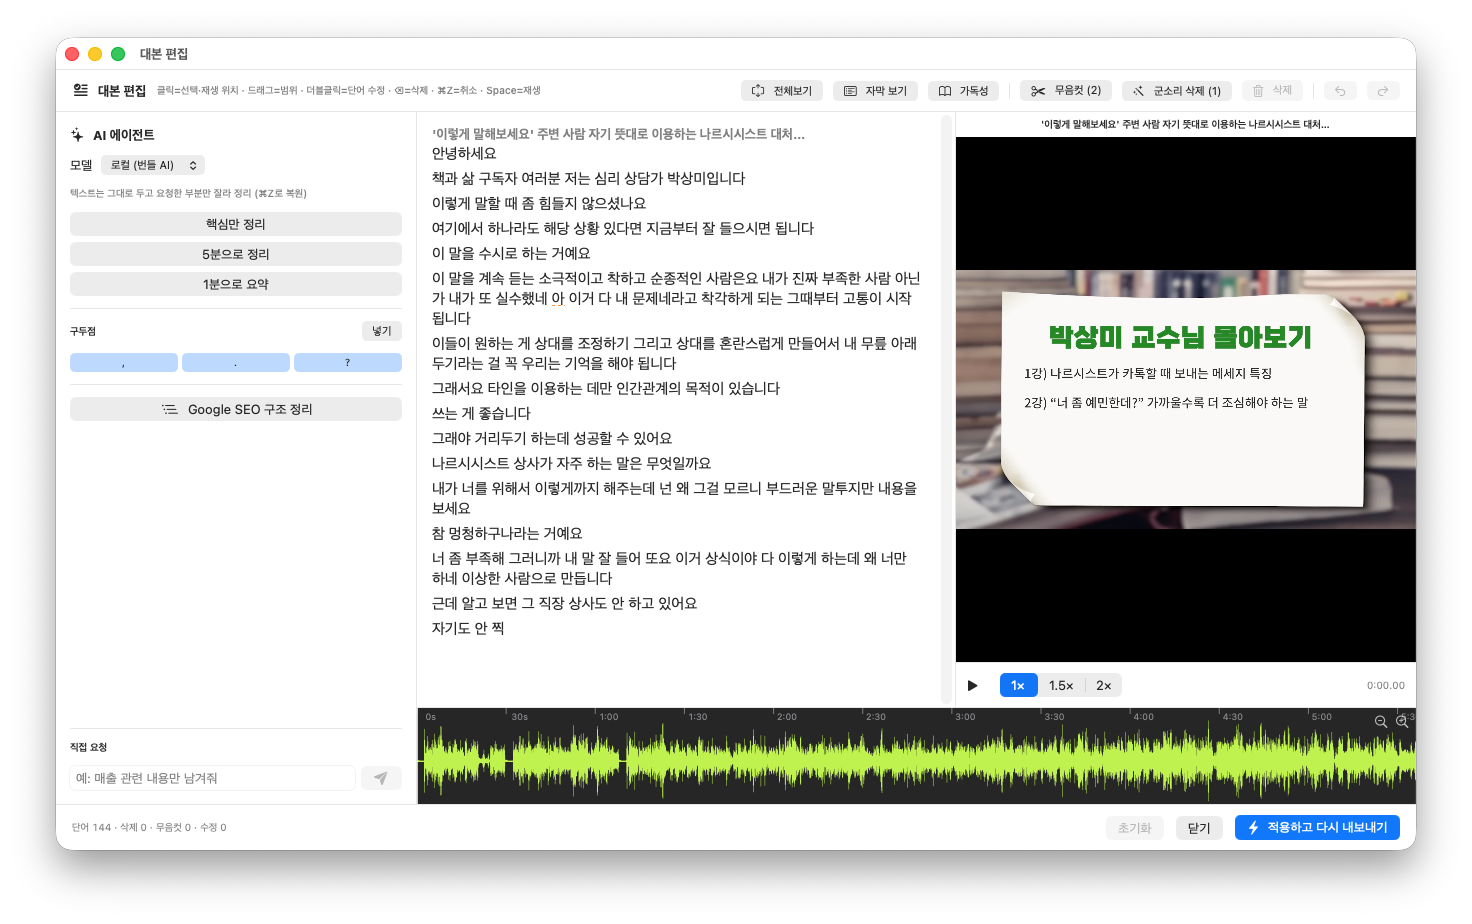
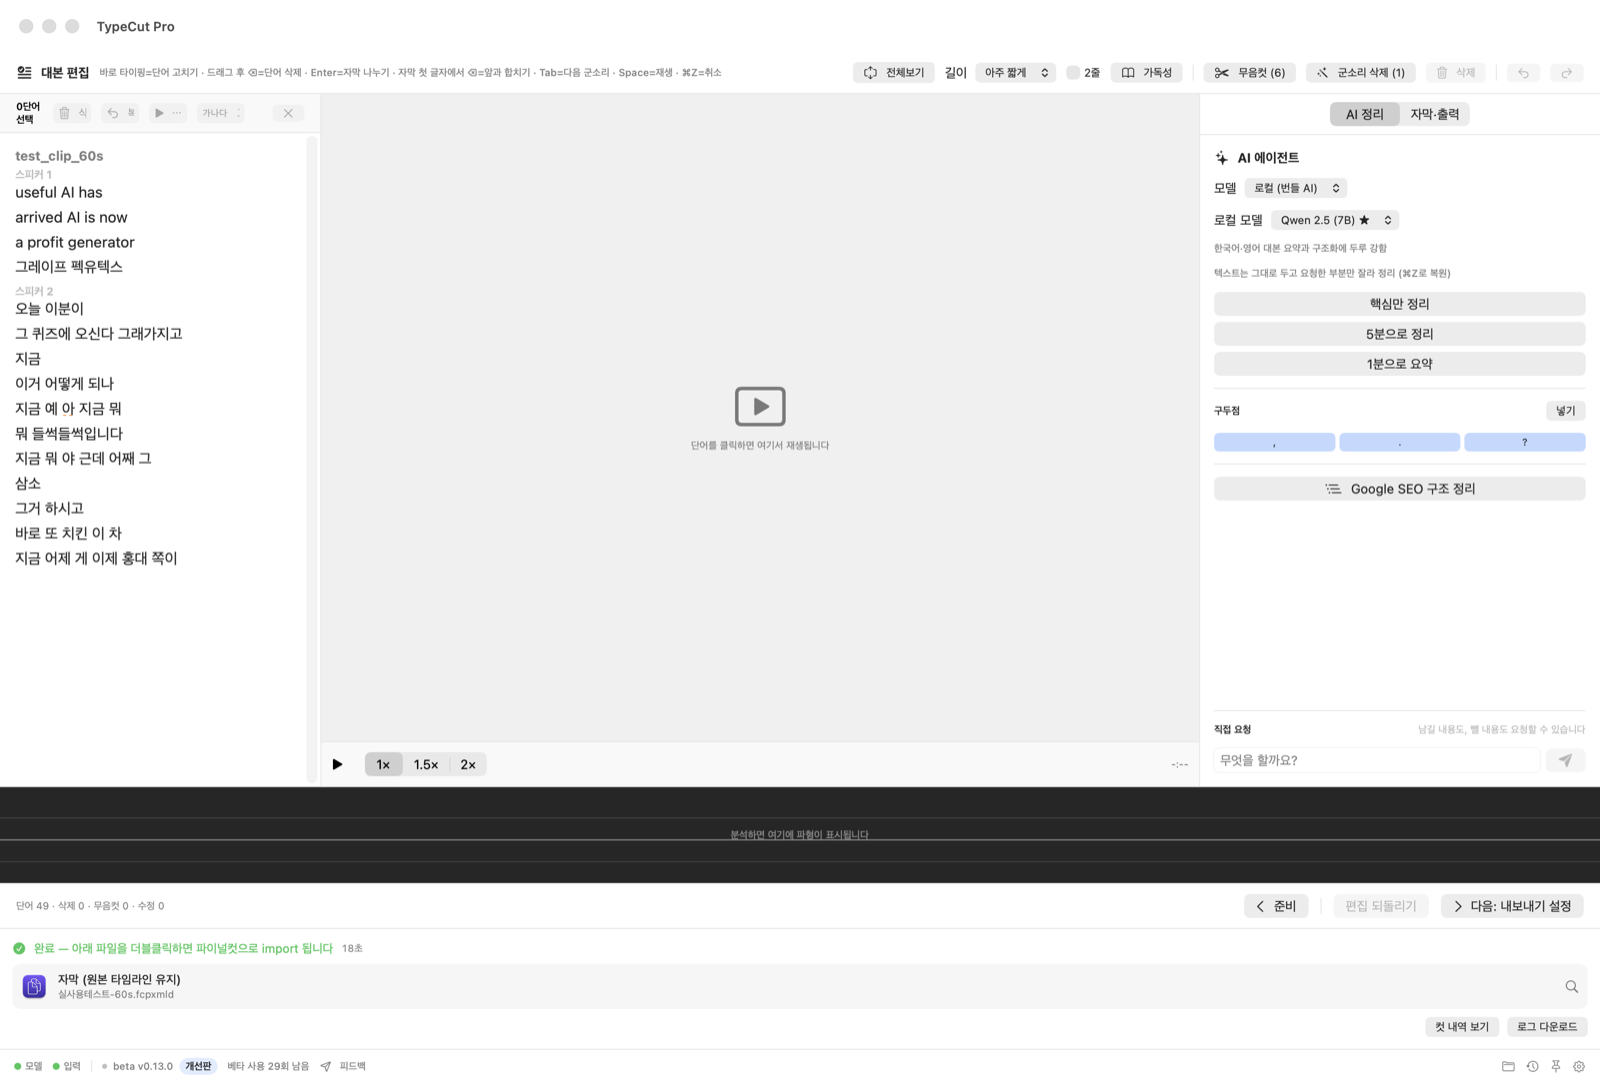
docs: v0.13.0 웹사이트 갱신

diff --git a/docs/index.html b/docs/index.html
@@ -178,7 +178,7 @@ footer a{color:var(--muted);text-decoration:underline}
       <a href="#style">자막 스타일</a>
       <a href="#howto">사용법</a>
       <a href="en/" onclick="try{localStorage.setItem('fcpa-lang','en')}catch(e){}" title="View in English">🇺🇸 English</a>
-      <a href="https://github.com/groundroot/typecut-pro/releases" class="dl">다운로드</a>
+      <a href="https://github.com/groundroot/typecut-pro/releases/download/v0.13.0/TypeCut-Pro-beta-v0.13.0.dmg" class="dl">다운로드</a>
     </div>
   </div>
 </nav>
@@ -189,7 +189,7 @@ footer a{color:var(--muted);text-decoration:underline}
     <h1>파이널컷 편집의 뒷일,<br><span class="grad">드래그 한 번</span>으로 끝.</h1>
     <p class="tag">프로젝트를 드래그하면 — <b>무음을 잘라내고, 자막을 입히고, 대본까지 텍스트로 편집</b>해 다시 파이널컷으로 돌려주는 맥앱. <b>모든 처리는 내 Mac 안에서만.</b> 영상이 외부 서버로 나가지 않습니다.</p>
     <div class="cta">
-      <a class="btn primary" href="https://github.com/groundroot/typecut-pro/releases">⬇ 최신 베타 받기 (DMG)</a>
+      <a class="btn primary" href="https://github.com/groundroot/typecut-pro/releases/download/v0.13.0/TypeCut-Pro-beta-v0.13.0.dmg">⬇ 베타 v0.13.0 받기 (DMG)</a>
       <a class="btn ghost" href="https://open.kakao.com/o/grDKAwCi">💬 베타 오픈채팅 참여</a>
     </div>
     <div class="badges">
@@ -197,7 +197,7 @@ footer a{color:var(--muted);text-decoration:underline}
       <span>100% 온디바이스 AI</span><span>English · 한국어</span>
     </div>
     <div class="shot"><img src="screenshots/main-window.png" alt="TypeCut Pro 메인 화면"></div>
-    <p class="caption">메인 화면 — 사이드바에서 <b>1단계(음성 분석) → 2단계(자막·출력)</b> 옵션을 고르고, 프로젝트를 점선 박스에 떨어뜨리면 끝.</p>
+    <p class="caption">v0.13.0 메인 화면 — 창 어디에나 프로젝트를 떨어뜨리면 즉시 분석하고, 대본·뷰어·옵션을 한 화면에서 이어서 편집합니다.</p>
   </div>
 </header>
 
@@ -261,7 +261,7 @@ footer a{color:var(--muted);text-decoration:underline}
   <div class="wrap">
     <p class="kicker">Transcript Editor</p>
     <h2>📝 대본 편집기 — 영상을 '글'처럼 편집</h2>
-    <p class="lead">분석이 끝나면 <b style="color:var(--text)">[대본 편집]</b> 버튼으로 문서 편집기 같은 창이 열립니다. 대본을 읽으며 필요 없는 부분을 지우면, <b style="color:var(--text)">그 구간이 타임라인에서 잘려</b> 나옵니다. 모든 편집은 ⌘Z로 복원.</p>
+    <p class="lead">편집기는 처음부터 상시 열려 있습니다. 분석 중에는 뷰어 위 진행 상태를, 완료 후에는 하단 결과를 보여줍니다. 대본을 읽으며 필요 없는 부분을 지우면 <b style="color:var(--text)">그 구간이 타임라인에서 잘려</b> 나오고, 모든 편집은 ⌘Z로 복원됩니다.</p>
 
     <div class="feature">
       <div class="txt">
@@ -279,15 +279,15 @@ footer a{color:var(--muted);text-decoration:underline}
 
     <div class="feature rev">
       <div class="txt">
-        <h3>💬 자막 뷰 — 자막 단위로 다듬기 <span style="font-size:13px;color:var(--muted)">(CapCut 스타일)</span></h3>
+        <h3>💬 집중 대본 뷰 — 글에만 몰입해 다듬기</h3>
         <ul>
-          <li>실제 출력될 <b>자막 한 장 = 카드 한 장</b>, 번호·타임코드 표시</li>
-          <li><b>자막 맨 앞에서 ⌫</b> = 앞 자막과 병합 · <b>⌘Enter</b> = 커서에서 분리</li>
-          <li>툴바 <b>길이 슬라이더 + 2줄 토글</b>로 자막 수 즉시 조절</li>
-          <li>병합·분리한 경계는 <b>출력 결과에 그대로 반영</b></li>
+          <li><b>전체보기</b>로 뷰어와 인스펙터를 숨겨 넓은 문서처럼 편집</li>
+          <li><b>Enter</b> = 커서에서 자막 나누기 · 자막 첫 글자에서 <b>⌫</b> = 앞 자막과 합치기</li>
+          <li>툴바에서 <b>자막 길이 + 2줄 토글</b>을 바로 조절</li>
+          <li><b>Tab</b> = 다음 군소리 · <b>Space</b> = 커서 위치부터 재생</li>
         </ul>
       </div>
-      <figure class="pic"><img src="screenshots/caption-cards.png" alt="자막 카드 편집 뷰" loading="lazy"></figure>
+      <figure class="pic"><img src="screenshots/caption-cards.png" alt="전체 화면 집중 대본 편집 뷰" loading="lazy"></figure>
     </div>
 
     <div class="feature">
@@ -295,7 +295,7 @@ footer a{color:var(--muted);text-decoration:underline}
         <h3>🤖 AI 에이전트 — 말하면 대신 편집</h3>
         <p class="sub">텍스트는 절대 바꾸지 않고 필요한 부분만 잘라내며, 결과는 언제든 검토·복원할 수 있습니다.</p>
         <ul>
-          <li><b>요약 & 발췌</b> — "핵심만" · "5분으로" · "매출 얘기만 남겨줘"</li>
+          <li><b>요약 &amp; 발췌</b> — "핵심만" · "5분으로" · "매출 얘기만 남겨줘"</li>
           <li><b>Google SEO 구조 정리</b> — H2·H3 목차 생성, 섹션 통째 삭제</li>
           <li><b>구두점 넣기</b> — 마침표·물음표·쉼표를 명문화된 규칙대로</li>
           <li><b>기본은 오프라인</b> — 원하면 OpenAI·Gemini·Claude API 키 연결</li>
@@ -308,8 +308,8 @@ footer a{color:var(--muted);text-decoration:underline}
 
 <section id="style">
   <div class="wrap">
-    <p class="kicker">Subtitle Style & Titles</p>
-    <h2>🎨 자막 스타일 & 타이틀 — 처음부터 완성형</h2>
+    <p class="kicker">Subtitle Style &amp; Titles</p>
+    <h2>🎨 자막 스타일 &amp; 타이틀 — 처음부터 완성형</h2>
 
     <div class="feature">
       <div class="txt">
@@ -363,8 +363,8 @@ footer a{color:var(--muted);text-decoration:underline}
     <p class="kicker">How to use</p>
     <h2>사용법 — 3단계</h2>
     <div class="steps">
-      <div class="step"><div class="n">1</div><h3>넣기</h3><p>파이널컷에서 프로젝트를 잡아 앱의 점선 박스로 드래그</p></div>
-      <div class="step"><div class="n">2</div><h3>실행</h3><p>원하는 옵션을 켠 뒤 실행. 진행 상황과 남은 시간이 표시됩니다</p></div>
+      <div class="step"><div class="n">1</div><h3>넣기</h3><p>파이널컷 프로젝트나 .fcpxml(d) 파일을 앱 창 어디에나 드래그</p></div>
+      <div class="step"><div class="n">2</div><h3>자동 분석</h3><p>입력 즉시 분석. 편집기 뷰어 위에 단계별 진행 상황과 남은 시간이 표시됩니다</p></div>
       <div class="step"><div class="n">3</div><h3>돌려받기</h3><p>결과 파일을 잡아 파이널컷으로 드래그 → 새 프로젝트로 import (원본 비파괴)</p></div>
     </div>
     <div class="dualshot">
@@ -380,32 +380,21 @@ footer a{color:var(--muted);text-decoration:underline}
 <section>
   <div class="wrap">
     <p class="kicker">Requirements</p>
-    <h2>설치 & 요구 사항</h2>
+    <h2>설치 &amp; 요구 사항</h2>
     <div class="req">
       <div class="tile"><b>Mac</b><span>Apple Silicon (M1 이상) — Intel 미지원</span></div>
       <div class="tile"><b>macOS</b><span>14 (Sonoma) 이상</span></div>
       <div class="tile"><b>Final Cut Pro</b><span>10.x ~ 12.3</span></div>
       <div class="tile"><b>디스크</b><span>최초 1회 AI 음성 모델 약 3.5GB</span></div>
     </div>
-    <p class="caption" style="text-align:left;margin-top:20px">
-      DMG를 열고 앱을 Applications로 드래그하면 설치 끝.
-      설치 후에는 <b>앱 안의 "지금 업데이트"</b> 버튼으로 이후 버전을 바로 받을 수 있어요.
-      성능·개인정보: 모든 AI 처리는 온디바이스로, 네트워크 연결 없이 동작합니다.
-    </p>
-
-    <h3 style="margin-top:44px;font-size:19px;font-weight:800">🔓 "확인되지 않은 개발자" 경고가 뜬다면 — 한 번만 이렇게</h3>
-    <p class="caption" style="text-align:left;margin-top:8px">
-      베타 버전은 아직 Apple 공증(notarization) 전이라, 처음 열 때 macOS가 실행을 한 번 차단합니다.
-      아래 순서대로 허용해 주세요. <b>최초 1회만 필요</b>하고, 이후에는 더블클릭으로 바로 열립니다.
-    </p>
-    <div class="steps" style="margin-top:20px">
-      <div class="step"><div class="n">1</div><h3>일단 한 번 실행</h3><p>Applications에서 <b>TypeCut Pro를 더블클릭</b> → "열 수 없습니다" 경고가 뜨면 <b>완료(확인)</b>를 누릅니다. 이 시도가 있어야 다음 단계 버튼이 나타나요.</p></div>
-      <div class="step"><div class="n">2</div><h3>설정에서 허용</h3><p><b>시스템 설정 → 개인정보 보호 및 보안</b>으로 가서 아래로 스크롤 → "'TypeCut Pro'이(가) 차단되었습니다" 옆의 <b>그래도 열기</b>를 클릭합니다.</p></div>
-      <div class="step"><div class="n">3</div><h3>암호 입력 후 열기</h3><p>관리자 암호(또는 Touch ID)를 입력하고 <b>열기</b>를 누르면 실행됩니다. 다음부터는 경고 없이 바로 열려요.</p></div>
+    <div class="steps" style="margin-top:24px">
+      <div class="step"><div class="n">1</div><h3>DMG 열기</h3><p><b>TypeCut Pro beta v0.13.0</b> DMG를 다운로드해 엽니다.</p></div>
+      <div class="step"><div class="n">2</div><h3>Applications로 복사</h3><p>TypeCut Pro를 <b>Applications 폴더로 드래그</b>하면 설치가 끝납니다.</p></div>
+      <div class="step"><div class="n">3</div><h3>첫 실행</h3><p>앱을 열고 온디바이스 음성 모델을 한 번 다운로드한 뒤 프로젝트를 드롭합니다.</p></div>
     </div>
-    <p class="caption" style="text-align:left;margin-top:16px">
-      💡 이 경고는 앱에 문제가 있어서가 아니라, 베타가 아직 Apple의 공증 절차를 거치지 않았기 때문에 나오는 표준 안내입니다.
-      막히는 부분이 있으면 <a href="https://open.kakao.com/o/grDKAwCi">베타 오픈채팅</a>에서 바로 도와드려요.
+
+    <p class="caption" style="text-align:left;margin-top:20px">
+      v0.13.0은 <b>Apple 공증(notarization)을 완료</b>했습니다. 별도의 보안 해제 절차 없이 실행할 수 있고, 이후 버전은 앱 안의 업데이트 버튼으로 받을 수 있습니다. 음성 인식·자막·편집 처리는 모두 Mac 안에서 동작합니다.
     </p>
   </div>
 </section>
@@ -414,7 +403,7 @@ footer a{color:var(--muted);text-decoration:underline}
   <div class="wrap" style="padding-top:20px;padding-bottom:20px">
     <h2>컷 편집의 지루한 뒷일,<br>이제 몇 분이면 됩니다.</h2>
     <div class="cta">
-      <a class="btn primary" href="https://github.com/groundroot/typecut-pro/releases">⬇ 최신 베타 받기</a>
+      <a class="btn primary" href="https://github.com/groundroot/typecut-pro/releases/download/v0.13.0/TypeCut-Pro-beta-v0.13.0.dmg">⬇ 베타 v0.13.0 받기</a>
       <a class="btn ghost" href="https://github.com/groundroot/typecut-pro">GitHub에서 보기</a>
     </div>
     <p class="caption" style="margin-top:20px">💬 설치 도움 · 버그 제보 · 기능 요청 — <a href="https://open.kakao.com/o/grDKAwCi">카카오톡 베타 오픈채팅</a></p>

diff --git a/docs/en/index.html b/docs/en/index.html
@@ -23,7 +23,7 @@
   <link rel="alternate" hreflang="x-default" href="https://groundroot.github.io/typecut-pro/en/">
   <link rel="icon" href="../icon.png">
   <script type="application/ld+json">
-  {"@context":"https://schema.org","@type":"SoftwareApplication","name":"TypeCut Pro","applicationCategory":"MultimediaApplication","operatingSystem":"macOS 14 or later","softwareVersion":"0.12.82 beta","downloadUrl":"https://github.com/groundroot/typecut-pro/releases/latest","description":"On-device silence removal, native captions, and text-based editing for Final Cut Pro.","offers":{"@type":"Offer","price":"0","priceCurrency":"USD"}}
+  {"@context":"https://schema.org","@type":"SoftwareApplication","name":"TypeCut Pro","applicationCategory":"MultimediaApplication","operatingSystem":"macOS 14 or later","softwareVersion":"0.13.0 beta","downloadUrl":"https://github.com/groundroot/typecut-pro/releases/download/v0.13.0/TypeCut-Pro-beta-v0.13.0.dmg","description":"On-device silence removal, native captions, and text-based editing for Final Cut Pro.","offers":{"@type":"Offer","price":"0","priceCurrency":"USD"}}
   </script>
   <script>
     (function () {
@@ -233,8 +233,9 @@
     .caption-demo .wrap { display: grid; grid-template-columns: .72fr 1.28fr; gap: 80px; align-items: center; }
     .caption-stack { position: relative; min-height: 500px; }
     .caption-stack .media { position: absolute; width: 92%; }
-    .caption-stack .media:first-child { top: 0; left: 0; transform: rotate(-1.2deg); }
-    .caption-stack .media:last-child { right: 0; bottom: 0; transform: rotate(1.4deg); box-shadow: 0 35px 80px rgba(0,0,0,.55); }
+    .caption-stack .media:first-child { top: 0; left: 0; z-index: 1; transform: rotate(-1.2deg); }
+    .caption-stack .media:nth-child(2) { top: 50%; left: 50%; z-index: 2; transform: translate(-48%, -50%) rotate(.4deg); }
+    .caption-stack .media:last-child { right: 0; bottom: 0; z-index: 3; transform: rotate(1.4deg); box-shadow: 0 35px 80px rgba(0,0,0,.55); }
     .caption-copy h2 { font-size: clamp(40px, 5vw, 68px); line-height: .98; letter-spacing: -.055em; margin: 0; }
     .caption-copy p { color: var(--muted); font-size: 17px; }
 
@@ -345,7 +346,7 @@
           <h1>The boring half <span class="quiet">of editing, automated.</span></h1>
           <p class="intro">Drop in your Final Cut project. TypeCut Pro <strong>cuts dead air, creates native captions, and turns the timeline into editable text</strong> — then hands it back without touching your original.</p>
           <div class="actions">
-            <a class="button button-primary" href="https://github.com/groundroot/typecut-pro/releases/download/v0.12.82/TypeCut-Pro-beta-v0.12.82.dmg">Download beta v0.12.82</a>
+            <a class="button button-primary" href="https://github.com/groundroot/typecut-pro/releases/download/v0.13.0/TypeCut-Pro-beta-v0.13.0.dmg">Download beta v0.13.0</a>
             <a class="button button-secondary" href="#workflow">See the 3-step workflow</a>
           </div>
           <div class="meta" aria-label="System requirements summary">
@@ -375,13 +376,13 @@
         <div class="workflow-grid">
           <article class="workflow-step">
             <span class="num">01 / FINAL CUT</span>
-            <h2>Drag the project in</h2>
-            <p>Use the project you are already editing. No render or audio extraction.</p>
+            <h2>Drop the project anywhere</h2>
+            <p>Drop your Final Cut project or .fcpxml(d) anywhere in the window. No render or audio extraction.</p>
           </article>
           <article class="workflow-step">
             <span class="num">02 / AUTOCUT</span>
-            <h2>Choose what to automate</h2>
-            <p>Cut silence, generate captions, or open the transcript editor.</p>
+            <h2>Analysis starts immediately</h2>
+            <p>Progress stays over the viewer while the transcript editor remains ready underneath.</p>
           </article>
           <article class="workflow-step">
             <span class="num">03 / BACK TO FINAL CUT</span>
@@ -454,11 +455,11 @@
           <div class="feature-copy">
             <span class="feature-index">03 — TEXT-BASED EDITING</span>
             <h3>Read the cut. Delete the parts you do not need.</h3>
-            <p>The transcript editor links every word to the timeline. Select text, press delete, and that span is cut from the new project.</p>
+            <p>The always-mounted three-pane editor links every word to the timeline. Select text, press delete, and that span is cut from the new project.</p>
             <ul>
-              <li>Document view and caption-card view</li>
-              <li>Video preview, live captions, and waveform</li>
-              <li>Undoable edits with Command-Z</li>
+              <li>Transcript, viewer, and AI or output inspector in one workspace</li>
+              <li>One-click full transcript view for focused editing</li>
+              <li>Split and merge captions with the keyboard; undo with Command-Z</li>
             </ul>
           </div>
           <figure class="media">
@@ -473,18 +474,22 @@
       <div class="wrap">
         <div class="caption-stack" aria-label="Caption editing and styling screens">
           <figure class="media">
-            <figcaption class="media-label"><span>Caption cards</span><span>Keyboard editable</span></figcaption>
-            <img src="../screenshots/en/caption-cards.png" alt="Caption card editing view with numbered timecoded captions" loading="lazy">
+            <figcaption class="media-label"><span>Full transcript view</span><span>Keyboard editable</span></figcaption>
+            <img src="../screenshots/en/caption-cards.png" alt="Full-width transcript editing view with keyboard controls" loading="lazy">
           </figure>
           <figure class="media">
-            <figcaption class="media-label"><span>Subtitle style</span><span>WYSIWYG preview</span></figcaption>
-            <img src="../screenshots/en/subtitle-tuner.png" alt="Subtitle style editor with a live vertical-video preview" loading="lazy">
+            <figcaption class="media-label"><span>Output inspector</span><span>Instant re-export</span></figcaption>
+            <img src="../screenshots/en/subtitle-tuner.png" alt="Subtitle and output inspector beside the transcript and viewer" loading="lazy">
+          </figure>
+          <figure class="media">
+            <figcaption class="media-label"><span>Final Cut titles</span><span>Built-in + installed</span></figcaption>
+            <img src="../screenshots/en/title-picker.png" alt="Final Cut Pro title picker inside the output inspector" loading="lazy">
           </figure>
         </div>
         <div class="caption-copy">
           <p class="eyebrow">Finish, do not fix</p>
-          <h2 id="caption-title">See the caption before it hits the timeline.</h2>
-          <p>Adjust length, two-line mode, size, position, and title style with a live preview. TypeCut Pro detects horizontal and vertical projects and shows social safe zones where they matter.</p>
+          <h2 id="caption-title">Edit the words and the output without leaving the workspace.</h2>
+          <p>Switch between the AI agent and output inspector beside the transcript and viewer. Adjust caption length, two-line mode, size, position, silence cuts, roles, and storyline output; changes re-export in seconds without another analysis.</p>
           <p>Already have a favorite Final Cut title? Choose it — including third-party titles — and generate captions with its native values from the start.</p>
         </div>
       </div>
@@ -505,10 +510,10 @@
         <div>
           <div class="install-card">
             <article class="install-step"><span class="step-number">1</span><div><h3>Download and move to Applications</h3><p>Open the DMG, then drag TypeCut Pro into your Applications folder.</p></div></article>
-            <article class="install-step"><span class="step-number">2</span><div><h3>Allow the current beta once</h3><p>Open the app, dismiss the macOS alert, then go to System Settings → Privacy &amp; Security → Open Anyway. Enter your Mac password when asked.</p></div></article>
+            <article class="install-step"><span class="step-number">2</span><div><h3>Launch TypeCut Pro</h3><p>Open it normally from Applications. Version 0.13.0 is Apple-notarized, so no “Open Anyway” workaround is required.</p></div></article>
             <article class="install-step"><span class="step-number">3</span><div><h3>Download the speech model</h3><p>The first launch downloads the on-device speech model once. After that, the core workflow works offline.</p></div></article>
           </div>
-          <p class="beta-note"><strong>Transparent beta note:</strong> the current build is not yet Apple-notarized, so macOS requires the one-time “Open Anyway” step above. Notarization is in progress; the app itself still runs locally and does not upload your media.</p>
+          <p class="beta-note"><strong>Beta v0.13.0:</strong> Apple-notarized and ready to launch normally. Speech recognition, caption generation, and editing stay on your Mac; your media is not uploaded.</p>
         </div>
       </div>
     </section>
@@ -518,7 +523,7 @@
         <h2 id="final-title">Spend your edit on the story, not the cleanup.</h2>
         <p>TypeCut Pro is free while in beta.</p>
         <div class="actions">
-          <a class="button button-primary" href="https://github.com/groundroot/typecut-pro/releases/download/v0.12.82/TypeCut-Pro-beta-v0.12.82.dmg">Download for Apple Silicon</a>
+          <a class="button button-primary" href="https://github.com/groundroot/typecut-pro/releases/download/v0.13.0/TypeCut-Pro-beta-v0.13.0.dmg">Download beta v0.13.0</a>
           <a class="button button-secondary" href="https://github.com/groundroot/typecut-pro/issues">Questions &amp; feedback</a>
         </div>
       </div>
